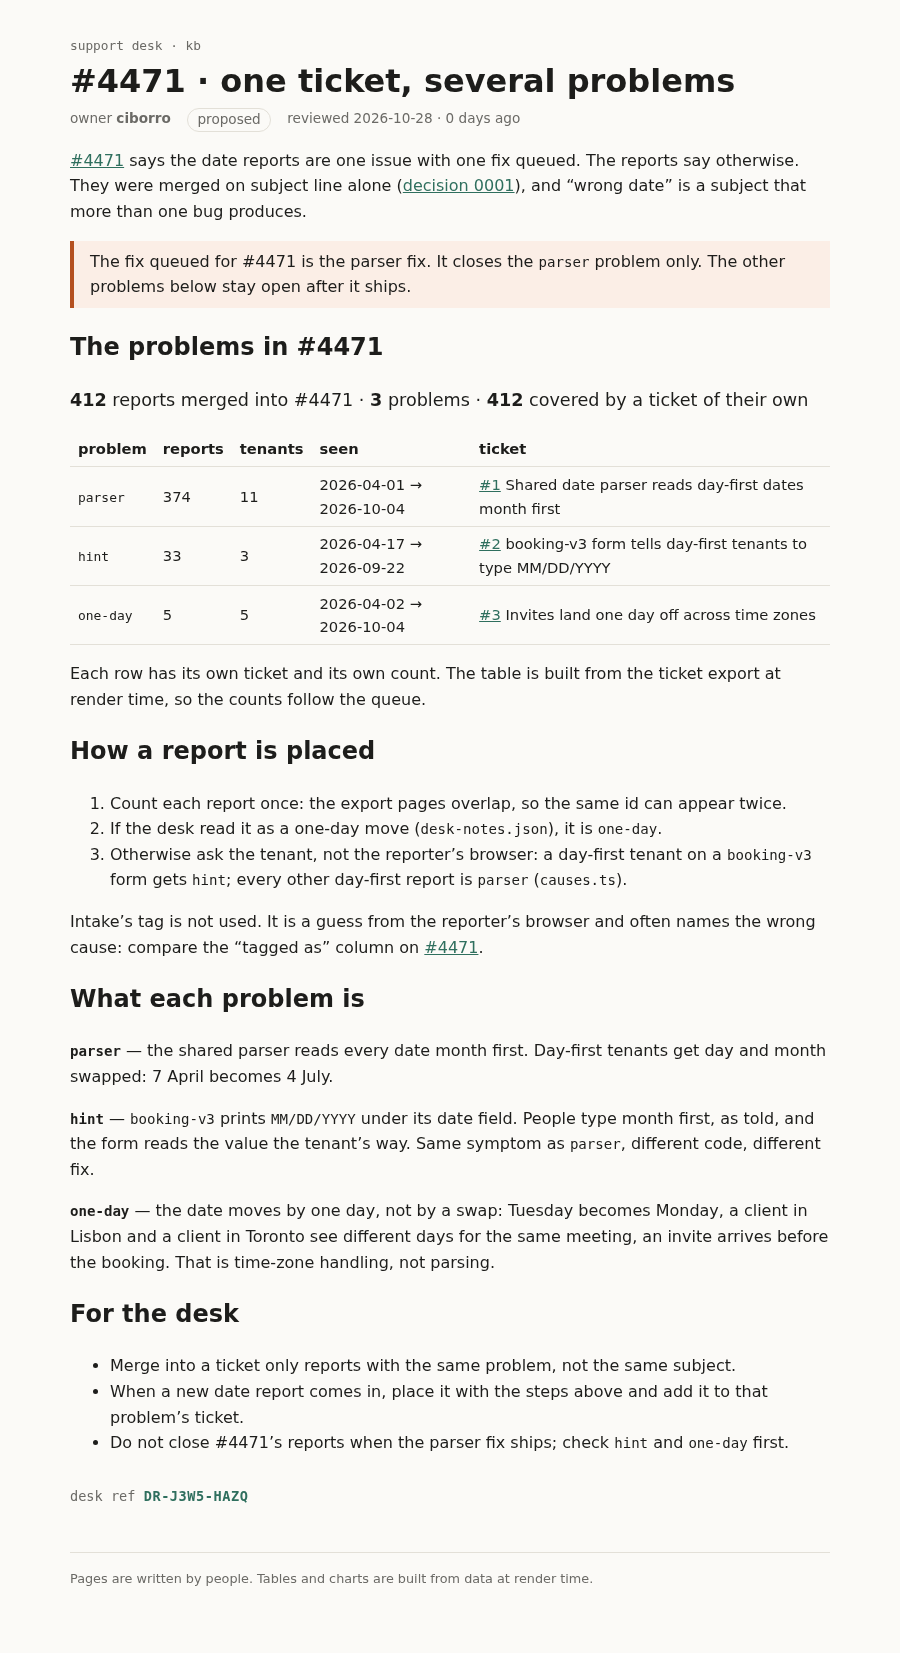
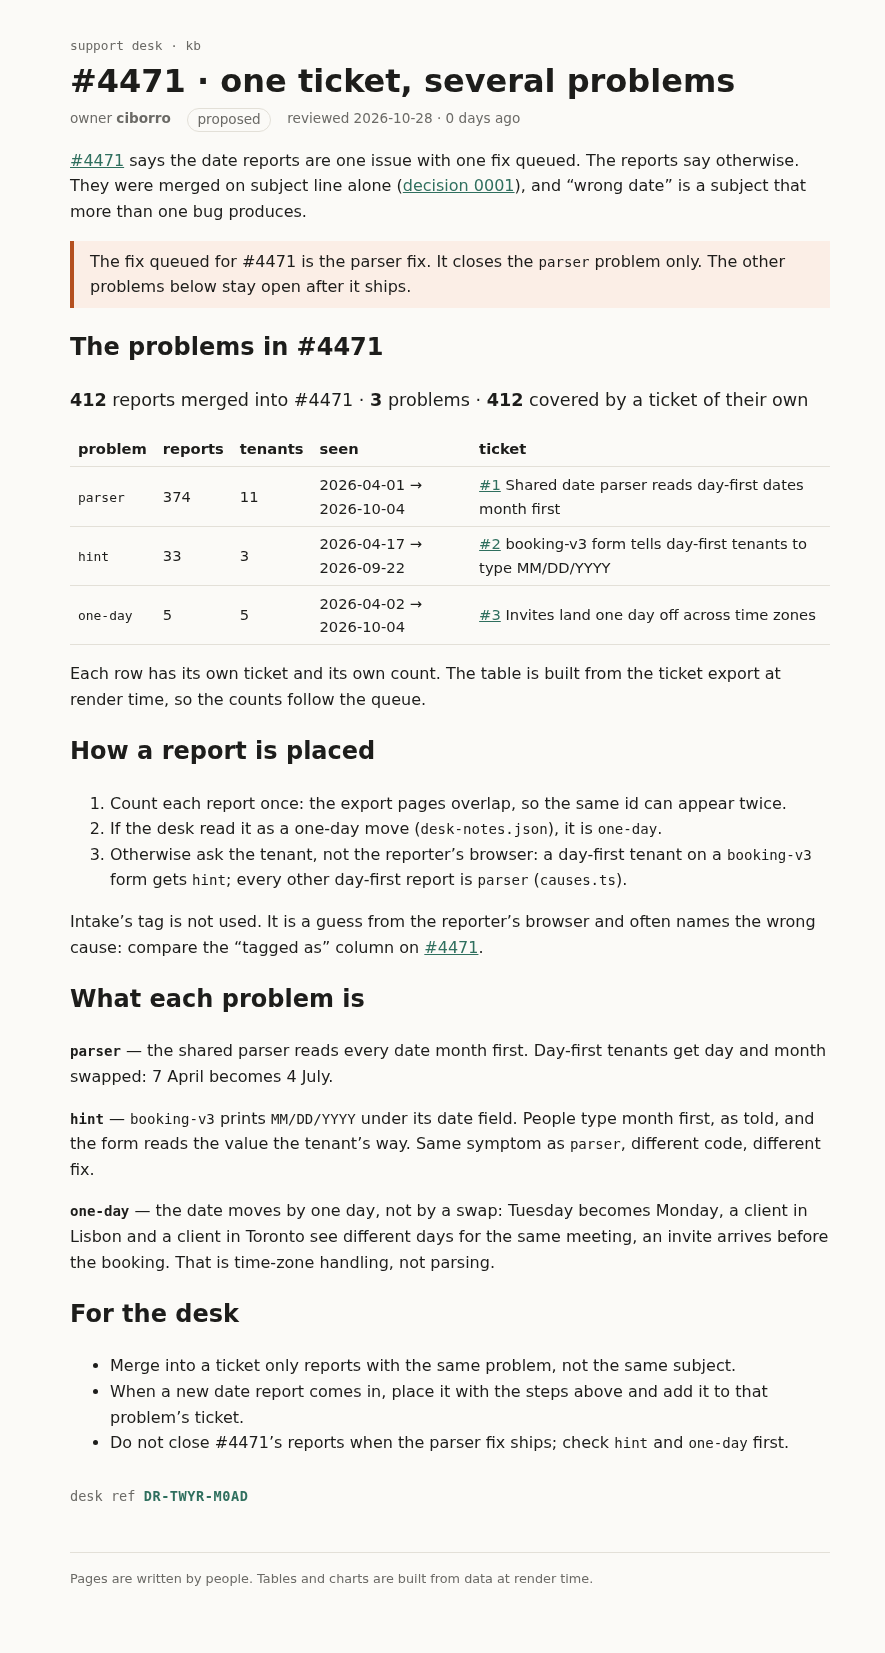
Sign the 4471 split page with the course ticket

Changed region(s): [[0.061, 0.0, 0.9153, 0.9256], [0.7017, 0.1543, 0.8847, 0.1851]]

diff --git a/build/_app/immutable/chunks/DESWZ-hm.js b/build/_app/immutable/chunks/DESWZ-hm.js
@@ -1,0 +1,10 @@
+import{t as e}from"./DK3Fl9T5.js";import{E as t,F as n,H as r,I as i,K as a,L as o,N as s,O as c,R as l,S as u,T as d,U as f,W as p,_ as m,c as h,d as g,h as _,k as v,q as y,r as b,t as x,w as S}from"./BCPXOG7W.js";import{t as C}from"./BTPwLomz.js";import{n as w,t as T}from"./CVBzP17p.js";import{i as E,l as D,r as O,t as k}from"./BIy4WKJS.js";var A={repo:`https://github.com/ciborro/mega-what-it-shows`,tickets:{parser:{issue:1,title:`Shared date parser reads day-first dates month first`},hint:{issue:2,title:`booking-v3 form tells day-first tenants to type MM/DD/YYYY`},"one-day":{issue:3,title:`Invites land one day off across time zones`}}};function j(e,t,n){return n.includes(e.id)?`one-day`:E(e,t)??`unplaced`}function M(e,t,n,r){let i=D(e).filter(e=>e.mergedInto===t),a=new Map;for(let e of i){let t=j(e,n(e),r);a.set(t,[...a.get(t)??[],e])}let o=[...a.entries()].map(([e,t])=>{let n=t.map(e=>e.receivedAt.slice(0,10)).sort();return{problem:e,reports:t,tenants:[...new Set(t.map(e=>e.tenant))].sort(),firstSeen:n[0],lastSeen:n[n.length-1]}}).sort((e,t)=>t.reports.length-e.reports.length);return{merged:i.length,groups:o}}var N=t(`<a> </a> `,1),P=t(`<tr><td class="svelte-1op6c6"><code> </code></td><td class="svelte-1op6c6"> </td><td class="svelte-1op6c6"> </td><td class="svelte-1op6c6"> </td><td class="svelte-1op6c6"><!></td></tr>`),F=t(`<p class="sum svelte-1op6c6"><strong> </strong> <strong> </strong> <strong> </strong> covered by a ticket of their own</p> <table><thead><tr><th>problem</th><th>reports</th><th>tenants</th><th>seen</th><th>ticket</th></tr></thead><tbody></tbody></table>`,1);function I(e,t){p(t,!0);let d=r(()=>M(w,t.ticket,O,T.oneDayMove)),b=A.tickets,x=r(()=>v(d).groups.filter(e=>b[e.problem]).reduce((e,t)=>e+t.reports.length,0));var C=F(),E=i(C),D=n(E),k=o(D,!0),j=l(D),I=l(j),L=o(I,!0),R=l(I),z=l(R),B=o(z,!0);a(),y(E);var V=l(E,2),H=l(n(V));_(H,21,()=>v(d).groups,e=>e.problem,(e,t)=>{let a=r(()=>b[v(t).problem]);var d=P();let f;var p=n(d),_=n(p),x=o(_,!0);y(p);var C=l(p),w=o(C,!0),T=l(C),E=o(T,!0),D=l(T),O=o(D),k=l(D),j=n(k),M=e=>{var t=N(),n=i(t),r=o(n),c=l(n);s(()=>{h(n,`href`,`${A.repo??``}/issues/${v(a).issue??``}`),u(r,`#${v(a).issue??``}`),u(c,` ${v(a).title??``}`)}),S(e,t)},F=e=>{var t=c(`no ticket yet`);S(e,t)};m(j,e=>{v(a)?e(M):e(F,-1)}),y(k),y(d),s(()=>{f=g(d,1,`svelte-1op6c6`,null,f,{open:!v(a)}),u(x,v(t).problem),u(w,v(t).reports.length),u(E,v(t).tenants.length),u(O,`${v(t).firstSeen??``} → ${v(t).lastSeen??``}`)}),S(e,d)}),y(H),y(V),s(()=>{u(k,v(d).merged),u(j,` reports merged into #${t.ticket??``} · `),u(L,v(d).groups.length),u(R,` ${v(d).groups.length===1?`problem`:`problems`} · `),u(B,v(x))}),S(e,C),f()}var L=`0123456789ABCDEFGHJKMNPQRSTVWXYZ`;function R(e,t){let n=t>>>0;for(let t=0;t<e.length;t++)n^=e.charCodeAt(t),n=Math.imul(n,16777619)>>>0;return n}function z(e){let t=e.trim(),n=R(t,2166136261),r=R(t,2654435769),i=BigInt(n)<<8n|BigInt(r&255),a=``;for(let e=0;e<8;e++)a=L[Number(i&31n)]+a,i>>=5n;return`DR-${a.slice(0,4)}-${a.slice(4)}`}var B=t(`<p class="stamp svelte-1280m42">desk ref <b class="svelte-1280m42"> </b></p>`),V=t(`<p class="stamp missing svelte-1280m42">no desk ref: this page isn't signed (no <code>signature</code> in its frontmatter)</p>`);function H(e,t){p(t,!0);let a=r(()=>t.signature?z(t.signature):null);var c=d(),h=i(c),g=e=>{var t=B(),r=l(n(t)),i=o(r,!0);y(t),s(()=>u(i,v(a))),S(e,t)},_=e=>{var t=V();S(e,t)};m(h,e=>{v(a)?e(g):e(_,-1)}),S(e,c),f()}var U=e({default:()=>$,metadata:()=>W}),W={layout:`runbook`,title:`#4471 · one ticket, several problems`,owner:`ciborro`,status:`proposed`,reviewed:`2026-10-28T00:00:00.000Z`,signature:`v1.eyJzdWIiOiIyODYiLCJhdWQiOiJjaGFsbGVuZ2U6d2hhdC1pdC1zaG93cyIsImlhdCI6MTc5MzE3NjM4NiwiZXhwIjoxNzkzMjYyNzg2fQ.j79rU9MDnSB-khljI1hi5X2SErN8lyOdgl7BDHodlxg`},{layout:G,title:K,owner:q,status:J,reviewed:Y,signature:X}=W,Z=t(`The fix queued for #4471 is the parser fix. It closes the <code>parser</code> problem only. The other
+problems below stay open after it ships.`,1),Q=t(`<p><a href="/kb/incidents/4471">#4471</a> says the date reports are one issue with one fix queued. The reports
+say otherwise. They were merged on subject line alone (<a href="/kb/decisions/0001-dedupe-by-subject">decision 0001</a>),
+and “wrong date” is a subject that more than one bug produces.</p> <!> <h2>The problems in #4471</h2> <!> <p>Each row has its own ticket and its own count. The table is built from the ticket export at render
+time, so the counts follow the queue.</p> <h2>How a report is placed</h2> <ol><li>Count each report once: the export pages overlap, so the same id can appear twice.</li> <li>If the desk read it as a one-day move (<code>desk-notes.json</code>), it is <code>one-day</code>.</li> <li>Otherwise ask the tenant, not the reporter’s browser: a day-first tenant on a <code>booking-v3</code> form gets <code>hint</code>; every other day-first report is <code>parser</code> (<code>causes.ts</code>).</li></ol> <p>Intake’s tag is not used. It is a guess from the reporter’s browser and often names the wrong cause:
+compare the “tagged as” column on <a href="/kb/incidents/4471">#4471</a>.</p> <h2>What each problem is</h2> <p><strong><code>parser</code></strong> — the shared parser reads every date month first. Day-first tenants get day and month
+swapped: 7 April becomes 4 July.</p> <p><strong><code>hint</code></strong> — <code>booking-v3</code> prints <code>MM/DD/YYYY</code> under its date field. People type month first, as told,
+and the form reads the value the tenant’s way. Same symptom as <code>parser</code>, different code, different fix.</p> <p><strong><code>one-day</code></strong> — the date moves by one day, not by a swap: Tuesday becomes Monday, a client in Lisbon
+and a client in Toronto see different days for the same meeting, an invite arrives before the
+booking. That is time-zone handling, not parsing.</p> <h2>For the desk</h2> <ul><li>Merge into a ticket only reports with the same problem, not the same subject.</li> <li>When a new date report comes in, place it with the steps above and add it to that problem’s ticket.</li> <li>Do not close #4471’s reports when the parser fix ships; check <code>hint</code> and <code>one-day</code> first.</li></ul> <!>`,1);function $(e,t){let n=x(t,[`children`,`$$slots`,`$$events`,`$$legacy`]);C(e,b(()=>n,()=>W,{children:(e,t)=>{var n=Q(),r=l(i(n),2);k(r,{kind:`warn`,children:(e,t)=>{a();var n=Z();a(2),S(e,n)},$$slots:{default:!0}});var o=l(r,4);I(o,{ticket:4471}),H(l(o,22),{get signature(){return X}}),S(e,n)},$$slots:{default:!0}}))}export{$ as n,U as t};

diff --git a/build/kb/incidents/4471/split/index.html b/build/kb/incidents/4471/split/index.html
@@ -9,11 +9,11 @@
 		<link href="../../../../_app/immutable/chunks/B2Ul7l_u.js" rel="modulepreload">
 		<link href="../../../../_app/immutable/chunks/BCPXOG7W.js" rel="modulepreload">
 		<link href="../../../../_app/immutable/chunks/Dh1V97Jm.js" rel="modulepreload">
-		<link href="../../../../_app/immutable/entry/app.C8K98w7s.js" rel="modulepreload">
+		<link href="../../../../_app/immutable/entry/app.CfqYkpgZ.js" rel="modulepreload">
 		<link href="../../../../_app/immutable/nodes/0.BurGglGN.js" rel="modulepreload">
 		<link href="../../../../_app/immutable/chunks/DK3Fl9T5.js" rel="modulepreload">
-		<link href="../../../../_app/immutable/nodes/5.Rs71Q7lW.js" rel="modulepreload">
-		<link href="../../../../_app/immutable/chunks/CB83t2jr.js" rel="modulepreload">
+		<link href="../../../../_app/immutable/nodes/5.eeSn42v7.js" rel="modulepreload">
+		<link href="../../../../_app/immutable/chunks/DESWZ-hm.js" rel="modulepreload">
 		<link href="../../../../_app/immutable/chunks/BTPwLomz.js" rel="modulepreload">
 		<link href="../../../../_app/immutable/chunks/CVBzP17p.js" rel="modulepreload">
 		<link href="../../../../_app/immutable/chunks/BIy4WKJS.js" rel="modulepreload">
@@ -32,20 +32,20 @@ compare the “tagged as” column on <a href="/kb/incidents/4471">#4471</a>.</p
 swapped: 7 April becomes 4 July.</p> <p><strong><code>hint</code></strong> — <code>booking-v3</code> prints <code>MM/DD/YYYY</code> under its date field. People type month first, as told,
 and the form reads the value the tenant’s way. Same symptom as <code>parser</code>, different code, different fix.</p> <p><strong><code>one-day</code></strong> — the date moves by one day, not by a swap: Tuesday becomes Monday, a client in Lisbon
 and a client in Toronto see different days for the same meeting, an invite arrives before the
-booking. That is time-zone handling, not parsing.</p> <h2>For the desk</h2> <ul><li>Merge into a ticket only reports with the same problem, not the same subject.</li> <li>When a new date report comes in, place it with the steps above and add it to that problem’s ticket.</li> <li>Do not close #4471’s reports when the parser fix ships; check <code>hint</code> and <code>one-day</code> first.</li></ul> <!--[0--><p class="stamp svelte-1280m42">desk ref <b class="svelte-1280m42">DR-J3W5-HAZQ</b></p><!--]--><!----><!----></main> <footer class="svelte-e2jw2j">Pages are written by people. Tables and charts are built from data at render time.</footer></div><!--]--><!--]--><!--]--><!----><!--]--><!--]--><!--]--><!----> <!--[-1--><!--]--><!--]-->
+booking. That is time-zone handling, not parsing.</p> <h2>For the desk</h2> <ul><li>Merge into a ticket only reports with the same problem, not the same subject.</li> <li>When a new date report comes in, place it with the steps above and add it to that problem’s ticket.</li> <li>Do not close #4471’s reports when the parser fix ships; check <code>hint</code> and <code>one-day</code> first.</li></ul> <!--[0--><p class="stamp svelte-1280m42">desk ref <b class="svelte-1280m42">DR-TWYR-M0AD</b></p><!--]--><!----><!----></main> <footer class="svelte-e2jw2j">Pages are written by people. Tables and charts are built from data at render time.</footer></div><!--]--><!--]--><!--]--><!----><!--]--><!--]--><!--]--><!----> <!--[-1--><!--]--><!--]-->
 			
 			<script>
 				{
-					__sveltekit_1tue6rh = {
+					__sveltekit_1m43nue = {
 						base: new URL("../../../..", location).pathname.slice(0, -1),
-						version: "1793176336354"
+						version: "1793176394735"
 					};
 
 					const element = document.currentScript.parentElement;
 
 					import("../../../../_app/immutable/entry/start.CH5w6lId.js").then(async (kit) => {
-						kit.init(__sveltekit_1tue6rh);
-						const app = await import("../../../../_app/immutable/entry/app.C8K98w7s.js");
+						kit.init(__sveltekit_1m43nue);
+						const app = await import("../../../../_app/immutable/entry/app.CfqYkpgZ.js");
 						kit.start(app, element, {
 							node_ids: [0, 5],
 							data: [null,null],

diff --git a/build/_app/immutable/nodes/2.o3jMhk_j.js b/build/_app/immutable/nodes/2.o3jMhk_j.js
@@ -1,0 +1,2 @@
+import{E as e,F as t,I as n,K as r,L as i,N as a,R as o,S as s,U as c,W as l,c as u,d,h as f,i as p,k as m,q as h,r as g,t as _,w as v}from"../chunks/BCPXOG7W.js";import{n as y,r as b,t as x}from"../chunks/BTPwLomz.js";import{t as S}from"../chunks/YX22L_Ud.js";import{t as C}from"../chunks/CgeRC4yK.js";import{t as w}from"../chunks/DESWZ-hm.js";import{t as T}from"../chunks/BGqJVSDw.js";var E=e(`<tr><td><a> </a></td><td> </td><td> </td><td> </td></tr>`),D=e(`<table><thead><tr><th>page</th><th>owner</th><th>status</th><th>reviewed</th></tr></thead><tbody></tbody></table>`);function O(e,n){l(n,!1);let r=Object.entries(Object.assign({"/src/routes/kb/decisions/0001-dedupe-by-subject/+page.svx":S,"/src/routes/kb/incidents/4471/+page.svx":C,"/src/routes/kb/incidents/4471/split/+page.svx":w,"/src/routes/kb/triage/dedupe/+page.svx":T})).map(([e,t])=>({href:e.replace(`/src/routes`,``).replace(`/+page.svx`,``),...t.metadata})).sort((e,t)=>e.href.localeCompare(t.href));p();var g=D(),_=o(t(g));f(_,5,()=>r,e=>e.href,(e,n)=>{var r=E(),c=t(r),l=t(c),f=i(l,!0);h(c);var p=o(c),g=i(p,!0),_=o(p),x=i(_,!0),S=o(_);let C;var w=i(S,!0);h(r),a((e,t)=>{u(l,`href`,m(n).href),s(f,m(n).title),s(g,m(n).owner),s(x,m(n).status),C=d(S,1,`svelte-tbc1ha`,null,C,{stale:e}),s(w,t)},[()=>y(m(n).reviewed)>180,()=>b(m(n).reviewed)]),v(e,r)}),h(_),h(g),v(e,g),c()}var k={layout:`runbook`,title:`Support knowledge base`,owner:`support desk`,status:`living`,reviewed:`2026-09-28T00:00:00.000Z`},{layout:A,title:j,owner:M,status:N,reviewed:P}=k,F=e(`<p>What the support desk knows, kept next to the code that knows it. One desk, every product: <code>sched-prod</code> (calendar invites for about 300k people) and the rest. When something breaks, the reports land here first.</p> <p>Start with <a href="/kb/triage/dedupe">triage</a> if you are new on the desk.</p> <h2>Pages</h2> <!> <h2>Writing a page</h2> <p>Keep the words here and the logic in <code>src/lib</code>. A number that can be computed should be
+computed by a component, not typed into a paragraph.</p>`,1);function I(e,t){let i=_(t,[`children`,`$$slots`,`$$events`,`$$legacy`]);x(e,g(()=>i,()=>k,{children:(e,t)=>{var i=F();O(o(n(i),6),{}),r(4),v(e,i)},$$slots:{default:!0}}))}export{I as component};

diff --git a/build/kb/index.html b/build/kb/index.html
@@ -9,16 +9,16 @@
 		<link href="../_app/immutable/chunks/B2Ul7l_u.js" rel="modulepreload">
 		<link href="../_app/immutable/chunks/BCPXOG7W.js" rel="modulepreload">
 		<link href="../_app/immutable/chunks/Dh1V97Jm.js" rel="modulepreload">
-		<link href="../_app/immutable/entry/app.C8K98w7s.js" rel="modulepreload">
+		<link href="../_app/immutable/entry/app.CfqYkpgZ.js" rel="modulepreload">
 		<link href="../_app/immutable/nodes/0.BurGglGN.js" rel="modulepreload">
 		<link href="../_app/immutable/chunks/DK3Fl9T5.js" rel="modulepreload">
-		<link href="../_app/immutable/nodes/2.B9fN-tbZ.js" rel="modulepreload">
+		<link href="../_app/immutable/nodes/2.o3jMhk_j.js" rel="modulepreload">
 		<link href="../_app/immutable/chunks/BTPwLomz.js" rel="modulepreload">
 		<link href="../_app/immutable/chunks/YX22L_Ud.js" rel="modulepreload">
 		<link href="../_app/immutable/chunks/CgeRC4yK.js" rel="modulepreload">
 		<link href="../_app/immutable/chunks/CVBzP17p.js" rel="modulepreload">
 		<link href="../_app/immutable/chunks/BIy4WKJS.js" rel="modulepreload">
-		<link href="../_app/immutable/chunks/CB83t2jr.js" rel="modulepreload">
+		<link href="../_app/immutable/chunks/DESWZ-hm.js" rel="modulepreload">
 		<link href="../_app/immutable/chunks/BGqJVSDw.js" rel="modulepreload">
 		<!--e2jw2j--><!----><title>Support knowledge base · support kb</title>
 		<link href="../_app/immutable/assets/runbook.COyw0cbZ.css" rel="stylesheet">
@@ -34,16 +34,16 @@ computed by a component, not typed into a paragraph.</p><!----></main> <footer c
 			
 			<script>
 				{
-					__sveltekit_1tue6rh = {
+					__sveltekit_1m43nue = {
 						base: new URL("..", location).pathname.slice(0, -1),
-						version: "1793176336354"
+						version: "1793176394735"
 					};
 
 					const element = document.currentScript.parentElement;
 
 					import("../_app/immutable/entry/start.CH5w6lId.js").then(async (kit) => {
-						kit.init(__sveltekit_1tue6rh);
-						const app = await import("../_app/immutable/entry/app.C8K98w7s.js");
+						kit.init(__sveltekit_1m43nue);
+						const app = await import("../_app/immutable/entry/app.CfqYkpgZ.js");
 						kit.start(app, element, {
 							node_ids: [0, 2],
 							data: [null,null],

diff --git a/build/_app/immutable/entry/app.CfqYkpgZ.js b/build/_app/immutable/entry/app.CfqYkpgZ.js
@@ -1,0 +1,2 @@
+const __vite__mapDeps=(i,m=__vite__mapDeps,d=(m.f||(m.f=["../nodes/0.BurGglGN.js","../chunks/DK3Fl9T5.js","../chunks/BCPXOG7W.js","../nodes/1.mOwa9YdW.js","../chunks/Dh1V97Jm.js","./payload.DSmR2FwN.js","../nodes/2.o3jMhk_j.js","../chunks/BTPwLomz.js","../assets/runbook.COyw0cbZ.css","../chunks/YX22L_Ud.js","../chunks/CgeRC4yK.js","../chunks/CVBzP17p.js","../chunks/BIy4WKJS.js","../assets/Callout.AbLv9dM_.css","../assets/_page.D56XP2ro.css","../chunks/DESWZ-hm.js","../assets/_page.lbj36FF-.css","../chunks/BGqJVSDw.js","../assets/_page.DO6Yid7X.css","../assets/2.Bt0MwIZg.css","../nodes/3.DRxPfvn3.js","../nodes/4.rt2PfD_4.js","../nodes/5.eeSn42v7.js","../nodes/6.sFtxrtyV.js"])))=>i.map(i=>d[i]);
+import{t as e}from"../chunks/CRzLMJPS.js";var t={},n=[()=>e(()=>import(`../nodes/0.BurGglGN.js`),__vite__mapDeps([0,1,2]),import.meta.url),()=>e(()=>import(`../nodes/1.mOwa9YdW.js`),__vite__mapDeps([3,2,4,5]),import.meta.url),()=>e(()=>import(`../nodes/2.o3jMhk_j.js`),__vite__mapDeps([6,2,7,8,9,1,10,11,12,13,14,15,16,17,18,19]),import.meta.url),()=>e(()=>import(`../nodes/3.DRxPfvn3.js`),__vite__mapDeps([20,9,1,2,7,8]),import.meta.url),()=>e(()=>import(`../nodes/4.rt2PfD_4.js`),__vite__mapDeps([21,10,1,2,7,8,11,12,13,14]),import.meta.url),()=>e(()=>import(`../nodes/5.eeSn42v7.js`),__vite__mapDeps([22,15,1,2,7,8,11,12,13,16]),import.meta.url),()=>e(()=>import(`../nodes/6.sFtxrtyV.js`),__vite__mapDeps([23,17,1,2,7,8,12,13,18]),import.meta.url)],r=[],i={"/kb":[2],"/kb/decisions/0001-dedupe-by-subject":[3],"/kb/incidents/4471":[4],"/kb/incidents/4471/split":[5],"/kb/triage/dedupe":[6]},a={handleError:(({kind:e,error:t})=>{e===`unknown`&&console.error(t)}),reroute:(()=>{}),transport:{}},o=Object.fromEntries(Object.entries(a.transport).map(([e,t])=>[e,t.decode])),s=Object.fromEntries(Object.entries(a.transport).map(([e,t])=>[e,t.encode])),c=!1,l=(e,t)=>o[e](t),u=()=>e(()=>import(`../chunks/Bjy-W4x2.js`).then(e=>e.default),[],import.meta.url);export{l as decode,o as decoders,i as dictionary,s as encoders,u as get_error_template,c as hash,a as hooks,t as matchers,n as nodes,r as server_loads};

diff --git a/build/kb/decisions/0001-dedupe-by-subject/index.html b/build/kb/decisions/0001-dedupe-by-subject/index.html
@@ -9,7 +9,7 @@
 		<link href="../../../_app/immutable/chunks/B2Ul7l_u.js" rel="modulepreload">
 		<link href="../../../_app/immutable/chunks/BCPXOG7W.js" rel="modulepreload">
 		<link href="../../../_app/immutable/chunks/Dh1V97Jm.js" rel="modulepreload">
-		<link href="../../../_app/immutable/entry/app.C8K98w7s.js" rel="modulepreload">
+		<link href="../../../_app/immutable/entry/app.CfqYkpgZ.js" rel="modulepreload">
 		<link href="../../../_app/immutable/nodes/0.BurGglGN.js" rel="modulepreload">
 		<link href="../../../_app/immutable/chunks/DK3Fl9T5.js" rel="modulepreload">
 		<link href="../../../_app/immutable/nodes/3.DRxPfvn3.js" rel="modulepreload">
@@ -26,16 +26,16 @@ engineering merges them later.</li></ul><!----></main> <footer class="svelte-e2j
 			
 			<script>
 				{
-					__sveltekit_1tue6rh = {
+					__sveltekit_1m43nue = {
 						base: new URL("../../..", location).pathname.slice(0, -1),
-						version: "1793176336354"
+						version: "1793176394735"
 					};
 
 					const element = document.currentScript.parentElement;
 
 					import("../../../_app/immutable/entry/start.CH5w6lId.js").then(async (kit) => {
-						kit.init(__sveltekit_1tue6rh);
-						const app = await import("../../../_app/immutable/entry/app.C8K98w7s.js");
+						kit.init(__sveltekit_1m43nue);
+						const app = await import("../../../_app/immutable/entry/app.CfqYkpgZ.js");
 						kit.start(app, element, {
 							node_ids: [0, 3],
 							data: [null,null],

diff --git a/build/kb/incidents/4471/index.html b/build/kb/incidents/4471/index.html
@@ -9,7 +9,7 @@
 		<link href="../../../_app/immutable/chunks/B2Ul7l_u.js" rel="modulepreload">
 		<link href="../../../_app/immutable/chunks/BCPXOG7W.js" rel="modulepreload">
 		<link href="../../../_app/immutable/chunks/Dh1V97Jm.js" rel="modulepreload">
-		<link href="../../../_app/immutable/entry/app.C8K98w7s.js" rel="modulepreload">
+		<link href="../../../_app/immutable/entry/app.CfqYkpgZ.js" rel="modulepreload">
 		<link href="../../../_app/immutable/nodes/0.BurGglGN.js" rel="modulepreload">
 		<link href="../../../_app/immutable/chunks/DK3Fl9T5.js" rel="modulepreload">
 		<link href="../../../_app/immutable/nodes/4.rt2PfD_4.js" rel="modulepreload">
@@ -29,16 +29,16 @@ first. The fix is queued.</p> <aside class="note svelte-17bri61"><!---->Known. O
 			
 			<script>
 				{
-					__sveltekit_1tue6rh = {
+					__sveltekit_1m43nue = {
 						base: new URL("../../..", location).pathname.slice(0, -1),
-						version: "1793176336354"
+						version: "1793176394735"
 					};
 
 					const element = document.currentScript.parentElement;
 
 					import("../../../_app/immutable/entry/start.CH5w6lId.js").then(async (kit) => {
-						kit.init(__sveltekit_1tue6rh);
-						const app = await import("../../../_app/immutable/entry/app.C8K98w7s.js");
+						kit.init(__sveltekit_1m43nue);
+						const app = await import("../../../_app/immutable/entry/app.CfqYkpgZ.js");
 						kit.start(app, element, {
 							node_ids: [0, 4],
 							data: [null,null],

diff --git a/build/kb/triage/dedupe/index.html b/build/kb/triage/dedupe/index.html
@@ -9,7 +9,7 @@
 		<link href="../../../_app/immutable/chunks/B2Ul7l_u.js" rel="modulepreload">
 		<link href="../../../_app/immutable/chunks/BCPXOG7W.js" rel="modulepreload">
 		<link href="../../../_app/immutable/chunks/Dh1V97Jm.js" rel="modulepreload">
-		<link href="../../../_app/immutable/entry/app.C8K98w7s.js" rel="modulepreload">
+		<link href="../../../_app/immutable/entry/app.CfqYkpgZ.js" rel="modulepreload">
 		<link href="../../../_app/immutable/nodes/0.BurGglGN.js" rel="modulepreload">
 		<link href="../../../_app/immutable/chunks/DK3Fl9T5.js" rel="modulepreload">
 		<link href="../../../_app/immutable/nodes/6.sFtxrtyV.js" rel="modulepreload">
@@ -29,16 +29,16 @@ anything else.<!----></aside><!----> <h2>Try it</h2> <div class="try svelte-gq0h
 			
 			<script>
 				{
-					__sveltekit_1tue6rh = {
+					__sveltekit_1m43nue = {
 						base: new URL("../../..", location).pathname.slice(0, -1),
-						version: "1793176336354"
+						version: "1793176394735"
 					};
 
 					const element = document.currentScript.parentElement;
 
 					import("../../../_app/immutable/entry/start.CH5w6lId.js").then(async (kit) => {
-						kit.init(__sveltekit_1tue6rh);
-						const app = await import("../../../_app/immutable/entry/app.C8K98w7s.js");
+						kit.init(__sveltekit_1m43nue);
+						const app = await import("../../../_app/immutable/entry/app.CfqYkpgZ.js");
 						kit.start(app, element, {
 							node_ids: [0, 6],
 							data: [null,null],

diff --git a/build/_app/immutable/nodes/5.eeSn42v7.js b/build/_app/immutable/nodes/5.eeSn42v7.js
@@ -1,0 +1,1 @@
+export{n as component}from"../chunks/DESWZ-hm.js";

diff --git a/README.md b/README.md
@@ -39,6 +39,6 @@ Exported 2026-10-04 from the `support` repo, `apps/kb/` → `src/`.
 
 Ticket #4471 split into one GitHub issue per problem: [#1 parser](https://github.com/ciborro/mega-what-it-shows/issues/1), [#2 hint](https://github.com/ciborro/mega-what-it-shows/issues/2), [#3 one-day](https://github.com/ciborro/mega-what-it-shows/issues/3).
 
-- Page: `src/routes/kb/incidents/4471/split/+page.svx` (signed `ciborro`), logic in `src/lib/kb/problems.ts`, table in `src/lib/kb/ProblemTable.svelte`, ticket map in `src/lib/data/tickets-4471.json`.
+- Page: `src/routes/kb/incidents/4471/split/+page.svx` (owner `ciborro`, signed with the course ticket), logic in `src/lib/kb/problems.ts`, table in `src/lib/kb/ProblemTable.svelte`, ticket map in `src/lib/data/tickets-4471.json`.
 - As the desk sees it: `build/kb/incidents/4471/split/index.html` (static build) and `rendered/kb-incidents-4471-split.png`.
 - Build: `npm ci && npm run build` (SvelteKit + mdsvex, config in `vite.config.js`, `#lib/*` via `package.json` imports).
